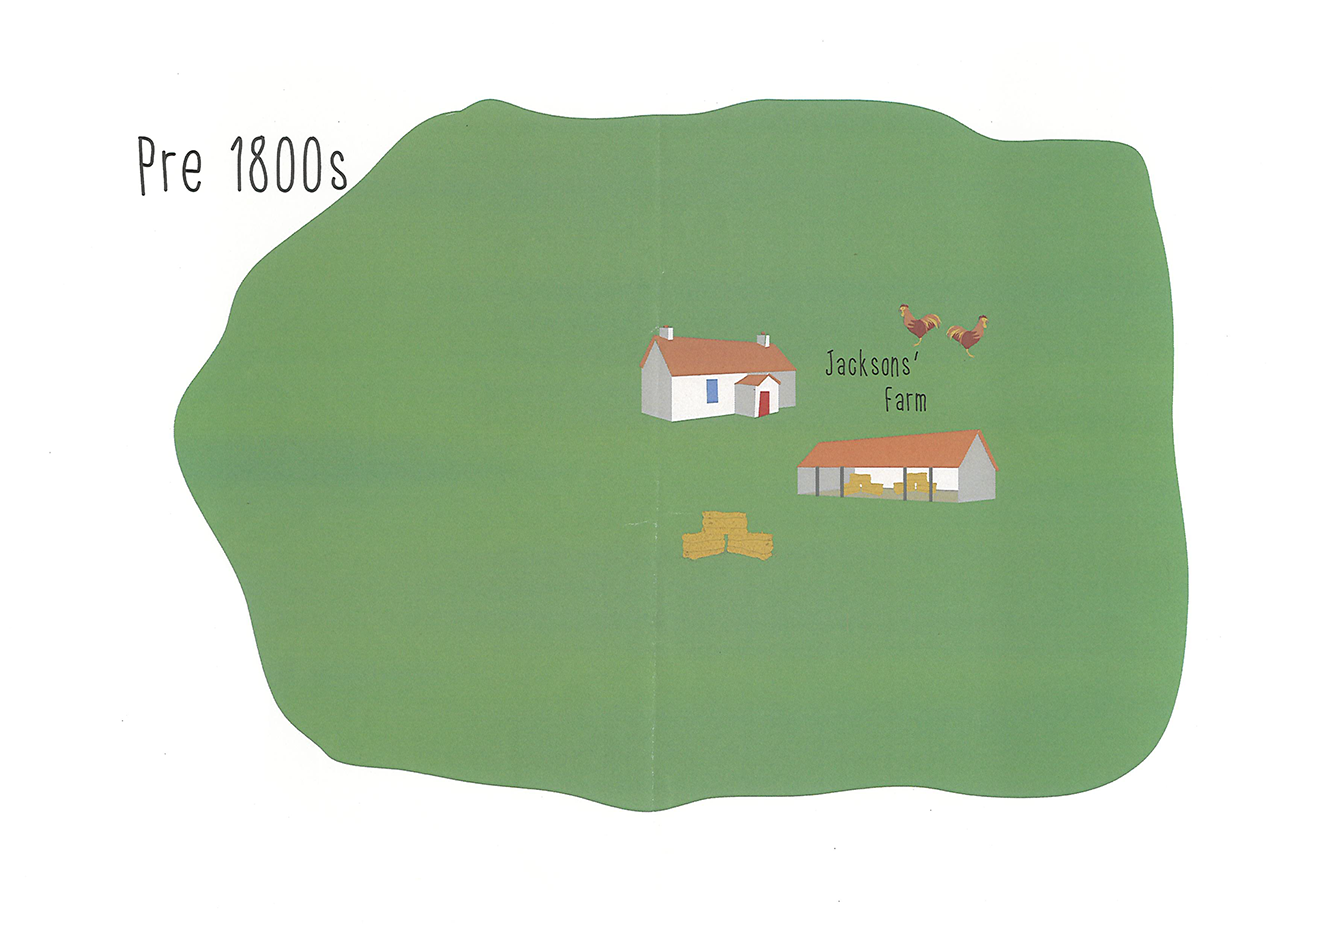
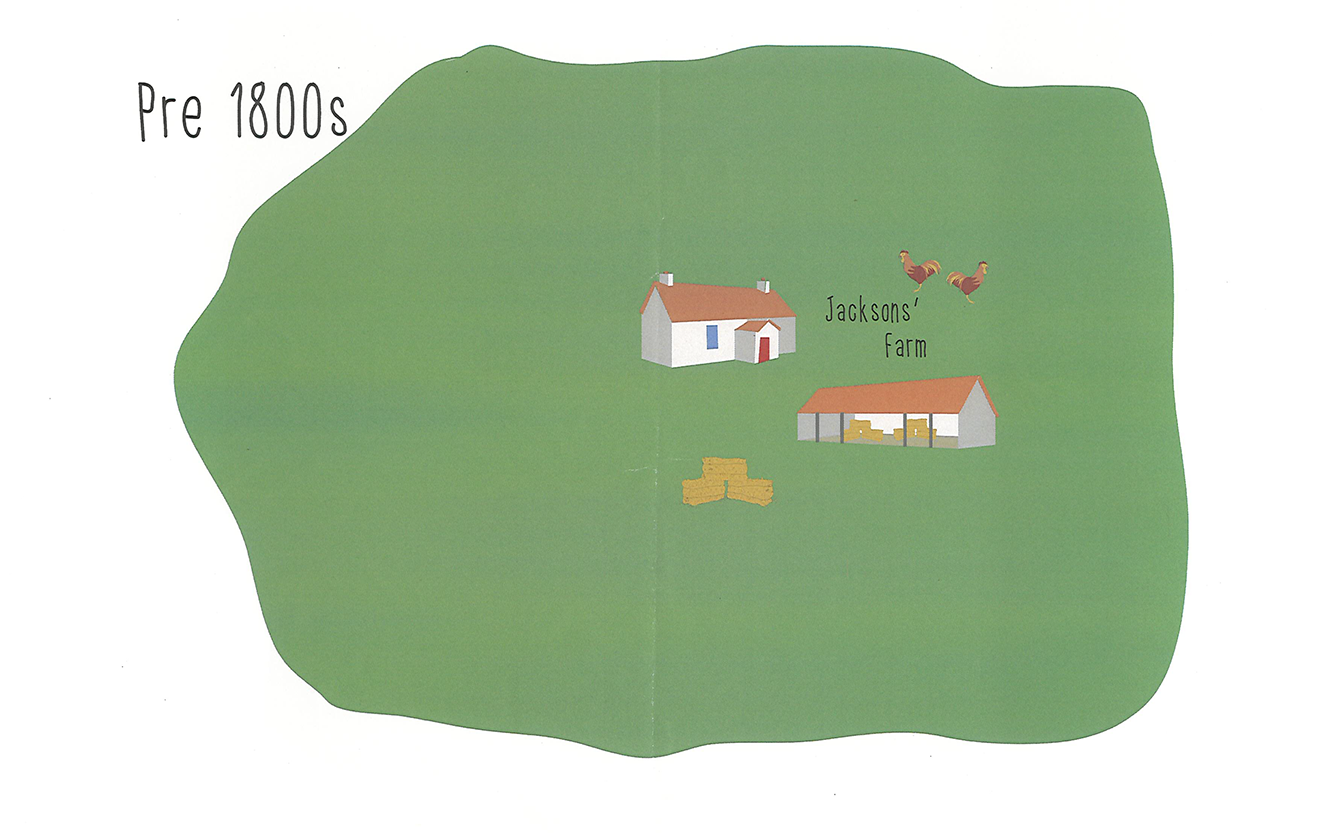
map upload and change size

diff --git a/assets/css/style.css b/assets/css/style.css
@@ -260,14 +260,22 @@ body {
 	transition: width 700ms, height 700ms, -webkit-transform 400ms;
 	transition: transform 400ms, width 700ms, height 700ms;
 	transition: transform 400ms, width 700ms, height 700ms, -webkit-transform 400ms;
-	background-image: url("../img/maps/map_today.png");
+	background-image: url("../img/maps/map_today2.png");
 	background-repeat: no-repeat;
 	background-size: 100%;
 	width: 1319px;
-	height: 927px;
+	height: 833px;
 }
 
-.map__inner--pre {
+.map__inner.map__inner--1960s1980s {
+	background-image: url("../img/maps/map_1960s1980s.png");
+}
+
+.map__inner.map__inner--1800s {
+	background-image: url("../img/maps/map_1800s.png");
+}
+
+.map__inner.map__inner--pre {
 	background-image: url("../img/maps/map_pre1800s.png");
 }
 

diff --git a/assets/css/site/_maps.scss b/assets/css/site/_maps.scss
@@ -48,16 +48,29 @@
 .map__inner {
   position: relative;
   transition: transform 400ms, width 700ms, height 700ms;
-  background-image: url('../img/maps/map_today.png');
+  background-image: url('../img/maps/map_today2.png');
   background-repeat: no-repeat;
   background-size: 100%;
   width: 1319px;
-  height: 927px;
+  height: 833px;
+
+  &.map__inner--1960s1980s {
+    background-image: url('../img/maps/map_1960s1980s.png');
+  }
+
+  &.map__inner--1800s {
+    background-image: url('../img/maps/map_1800s.png');
+  }
+
+  &.map__inner--pre {
+    background-image: url('../img/maps/map_pre1800s.png');
+  }
+
 }
 
-.map__inner--pre {
-  background-image: url('../img/maps/map_pre1800s.png');
-}
+
+
+
 
 
 .clickable {

diff --git a/assets/js/script.js b/assets/js/script.js
@@ -80,7 +80,7 @@ $(".slider")
           } else if (pipOne !== -1) {
             $(".map.dragscroll").load("assets/includes/maps/map-1800s.php");
           } else if (pipTwo !== -1) {
-            $(".map.dragscroll").load("assets/includes/maps/map-19601980s.php");
+            $(".map.dragscroll").load("assets/includes/maps/map-1960s1980s.php");
           } else if (pipThree !== -1) {
             $(".map.dragscroll").load("assets/includes/maps/map-today.php");
           }

diff --git a/assets/includes/maps/map-1960s1980s.php b/assets/includes/maps/map-1960s1980s.php
@@ -1,0 +1,4 @@
+<div class="map__inner map__inner--1960s1980s">
+
+
+</div>

diff --git a/assets/includes/maps/map-1800s.php b/assets/includes/maps/map-1800s.php
@@ -1,0 +1,4 @@
+<div class="map__inner map__inner--1800s">
+
+
+</div>
